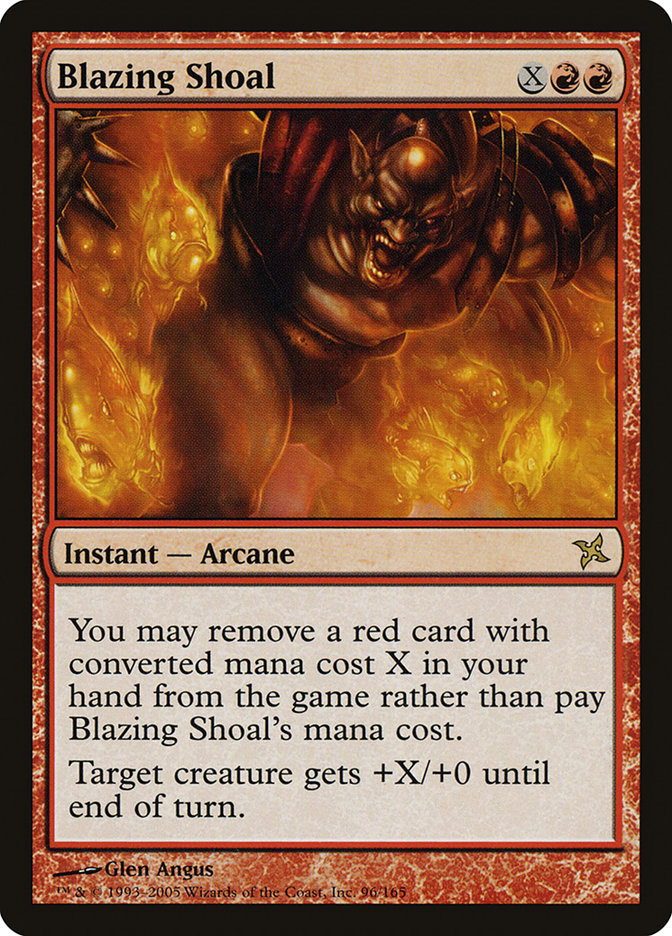
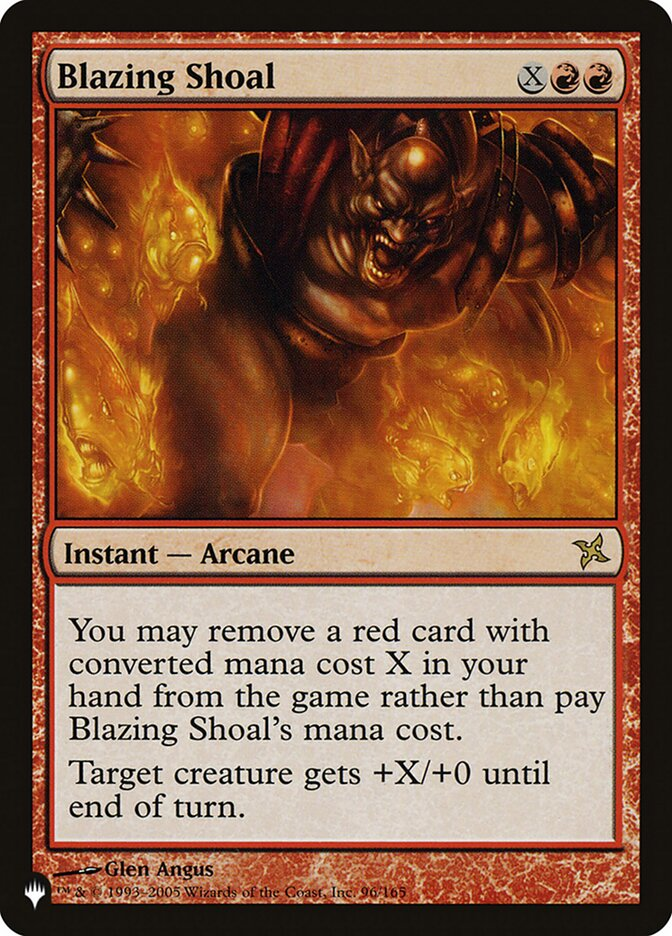
updated blazing shoal

diff --git a/index.html b/index.html
@@ -947,7 +947,7 @@
 							class="fragment fade-out w-4/12 shadow-xl opacity-100 rounded-3xl" 
 							data-src="img/card_back.jpg">
 							<a class="fragment fade-down w-full m-auto grid place-items-center" target="_blank" data-fragment-index="1" 
-								href="https://scryfall.com/card/bok/96/blazing-shoal">
+								href="https://scryfall.com/card/plist/682/blazing-shoal">
 								<img class="w-4/12 shadow-xl opacity-100 rounded-3xl" 
 									data-src="img/4/token.jpg">
 							</a>
